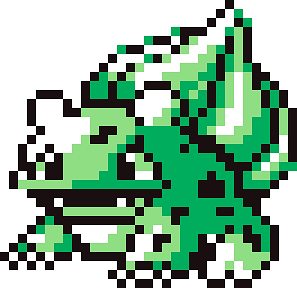
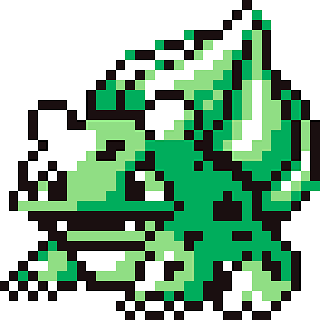
battlePanel styling done with all the pokemon pictures

diff --git a/index.html b/index.html
@@ -8,68 +8,71 @@
     <title>Pokemon Green</title>
     <script src="https://cdnjs.cloudflare.com/ajax/libs/jquery/3.2.1/jquery.min.js"></script>
     <link rel="stylesheet" href="assets/css/reset.css">
-    <!-- <link rel="stylesheet" href="https://stackpath.bootstrapcdn.com/bootstrap/4.1.3/css/bootstrap.min.css" integrity="sha384-MCw98/SFnGE8fJT3GXwEOngsV7Zt27NXFoaoApmYm81iuXoPkFOJwJ8ERdknLPMO"
-    crossorigin="anonymous"> -->
     <link rel="stylesheet" href="assets/css/style.css">
 </head>
 
 <body>
     <div class="userPanel">
         <div class="chooserTile">
-            <!-- <button class = "pokeBox"><img class = "pokePics" src="assets/images/charmander.png" alt=""></button>
-            <button class = "pokeBox"><img class = "pokePics" src="assets/images/squirtle.png" alt=""></button>
-            <button class = "pokeBox"><img class = "pokePics" src="assets/images/bulbasaur.png" alt=""></button> -->
-            <img id="charmander" class="pokePics" src="assets/images/charmander.png" alt="charmander">
-            <img id="squirtle" class="pokePics" src="assets/images/squirtle.png" alt="squirtle">
-            <img id="bulbasaur" class="pokePics" src="assets/images/bulbasaur.png" alt="bulbasaur">
+            <div class="pokeBox"><img id="charmander" class="pokePics" src="assets/images/charmander.png" alt="charmander"></div>
+            <div class="pokeBox"><img id="squirtle" class="pokePics" src="assets/images/squirtle.png" alt="squirtle"></div>
+            <div class="pokeBox"><img id="bulbasaur" class="pokePics" src="assets/images/bulbasaur.png" alt="bulbasaur"></div>
         </div>
 
         <div class="portraitTile">
-            <!-- <img id="portrait" src="assets/images/charmander.png" alt=""> -->
+            <div class="portraitBox"></div>
+            <div class="statsBox"></div>
         </div>
 
         <div class="abilitiesTile">
-            <!-- <div class="box1"> -->
-                <button class = "button button1">move1</button>
-            <!-- </div> class = "button button 1" -->
-            <!-- <div c class = "button button 1"lass="box2"> -->
-                <button class = "button button2">move2</button>
-            <!-- </div> class = "button button 1" -->
-            <!-- <div c class = "button button 1"lass="box3"> -->
-                <button class = "button button3">move3</button>
-            <!-- </div> class = "button button 1" -->
-            <!-- <div c class = "button button 1"lass="box4"> -->
-                <button class = "button button4">move4</button>
-            <!-- </div> -->
-            <!-- <div class="row">
-                <div class="col-md-6">
-                    <button type="button" class="btn btn-primary btn-lg">Large button</button>
-                </div>
-                <div class="col-md-6">
-                    <button type="button" class="btn btn-primary btn-lg">Large button</button>
-                </div>
-            </div>
-            <div class="row">
-                <div class="col-md-6">
-                    <button type="button" class="btn btn-primary btn-lg">Large button</button>
-                </div>
-                <div class="col-md-6">
-                    <button type="button" class="btn btn-primary btn-lg">Large button</button>
-                </div>
-            </div> -->
+            <button class="button button1">---</button>
+            <button class="button button2">---</button>
+            <button class="button button3">---</button>
+            <button class="button button4">---</button>
         </div>
     </div>
 
-    <div class="displayScreen">
-
-    </div>
-
-    <div class="dialogue">
-        <h1>Choose your starter Pokemon!</h1>
-    </div>
-
-    <div class="">
-
+    <div class="battlePanel">
+        <div class="battleTile">
+            <div class="gymLeader" id="Brock">
+                <div class = "pokePortrait">
+                    <div id="healthBar">88</div>
+                </div> 
+                Brock 
+                <img class="pokeOpponent" id="onix" src="assets/images/onix.png" alt="onix">
+            </div>
+            <div class="gymLeader" id="Misty">
+                Misty 
+                <img class="pokeOpponent" id="starmie" src="assets/images/starmie.png" alt="starnue">
+            </div>
+            <div class="gymLeader" id="Lt. Surge">
+                Lt. Surge 
+                <img class="pokeOpponent" id="raichu" src="assets/images/raichu.png" alt="raichu">
+            </div>
+            <div class="gymLeader" id="Erika">
+                Erika 
+                <img class="pokeOpponent" id="vileplume" src="assets/images/vileplume.png" alt="vileplume">
+            </div>
+            <div class="gymLeader" id="Koga">
+                Koga 
+                <img class="pokeOpponent" id="weezing" src="assets/images/weezing.png" alt="weezing">
+            </div>
+            <div class="gymLeader" id="Sabrina">
+                Sabrina 
+                <img class="pokeOpponent" id="alakazam" src="assets/images/alakazam.png" alt="alakazam">
+            </div>
+            <div class="gymLeader" id="Blaine">
+                Blaine 
+                <img class="pokeOpponent" id="arcanine" src="assets/images/arcanine.png" alt="arcanine">
+            </div>
+            <div class="gymLeader" id="Giovanni">
+                Giovanni 
+                <img class="pokeOpponent" id="nidoking" src="assets/images/nidoking.png" alt="nidoking">
+            </div>
+        </div>
+        <div class="dialogue">
+            <h1>Choose your starter Pokemon!</h1>
+        </div>
     </div>
     <script src="assets/javascript/game.js"></script>
 </body>

diff --git a/assets/css/style.css b/assets/css/style.css
@@ -1,56 +1,67 @@
+body{
+    /* border: 1px solid black; */
+    width: 100%;
+    height: 730px;
+}
 .userPanel{
     float: left;
-    max-width: 560px;
-    height: 730px;
-    background-color: antiquewhite;
+    width: 40%;
+    height: 100%;
+    background-color: white;
     border-right: 2px solid black;
     border-bottom: 2px solid black;
+    text-align: center;
 }
 .chooserTile{
-    width: 520px;
-    height: 160px;
-    border: 20px solid beige;
+    width: 100%;
+    height: 23%;
+    /* height: 160px; */
+    /* border: 20px 0px 20px 0px solid beige; */
     float: left;
     /* margin: 0px auto; */
-    background-color: beige;   
+    background-color: white;
+    text-align: center;
+}
+.pokeBox{
+    /* padding: 1%  ; */
+    float: left;
+    width: 33.33%;
+    height: 100%;
 }
 .pokePics{
-    width: 160px;
-    height: 160px;
+    border: 1% solid black;
+    width: auto;
+    height: 98%;
     float: left;
 }
 
-#squirtle {
-    margin: 0px 20px;
-}
 .portraitTile{
     float: left;
-    height: 250px;
-    width: 100%;
-    background-color: blanchedalmond;
+    height: 37%;
+    /* width: 70%; */
+    background-color: black;
+}
+.portraitBox{
+    height: 100%;
     text-align: center;
 }
+.statsBox{
+    float: left;
+    color: white;
+}
 #portrait{
-    opacity: 0%;
+    float: left;
     width: auto;
-    height: 96%;
-    border: 5px solid black;
+    height: 100%;
+    /* border: 2px solid pink; */
     
 }
 .abilitiesTile{
     float: left;
-    height: 280px;
+    height: 40%;
     width: 100%;
     background-color: grey;
 }
-/* .box1, .box2, .box3, .box4{
-    float: left;
-    width: 50%;
-    height: 50%;
-    text-align: center;
-    vertical-align: middle;
-    margin: auto;
-} */
 .button{
     float: left;
     width: 50%;
@@ -76,13 +87,52 @@
     color: white;
 }
 
+.battlePanel{
+    border: 1px solid black;
+    float: left;
+    width: 55%;
+    height: 100%;
+    background-color: white;
+}
+
+.battleTile{
+    float: left;
+    height: 70%;
+    width: 100%;
+    text-align: center;
+    font-size: 12px;
+}
+.gymLeader{
+    float: left;
+    height: 25%;
+    width: 50%;
+    /* border: 1px solid red; */
+    background-color: azure;
+}
 .dialogue{
     font-weight: bold;
     font-size: 30px;
-    border: 5px solid blue;
-    height: 190px;
-    width: 600px;
+    background-color: lightgrey;
+    height: 30%;
+    width: 100%;
     float: left;
     text-align: center;
 }
 
+
+.pokePortrait{
+    float: left;
+    height: 80%;
+    width: 40%;
+}
+.pokeOpponent{
+    filter: blur(20px) grayscale(100%);
+    float: right;
+    height: 90%;
+    width: auto;
+}
+#healthBar{
+    float: left;
+    width: 100%;
+    height: 10%;
+}

diff --git a/assets/javascript/game.js b/assets/javascript/game.js
@@ -41,32 +41,32 @@ $(".pokePics").on("click", function () {
         starter = new Pokemon("Charmander", 39, 52, 43, 65, "fire", "Scratch", "Growl", "Ember");
         $("#squirtle").fadeTo(500, .2);
         $("#bulbasaur").fadeTo(500, .2);
-        $(".portraitTile").html("<img id='portrait' src='assets/images/charmander.png' alt=''>");
+        $(".portraitBox").html("<img id='portrait' src='assets/images/charmander.png' alt=''>");
 
     }
     else if (chosenPokemon === "squirtle") {
         starter = new Pokemon("Squirtle", 44, 48, 65, 43, "water", "Tackle", "Tailwhip", "Water gun");
         $("#charmander").fadeTo(500, .2);
         $("#bulbasaur").fadeTo(500, .2);
-        $(".portraitTile").html("<img id='portrait' src='assets/images/squirtle.png' alt=''>")
+        $(".portraitBox").html("<img id='portrait' src='assets/images/squirtle.png' alt=''>")
     }
     else if (chosenPokemon === "bulbasaur") {
         starter = new Pokemon("Bulbasaur", 45, 49, 49, 45, "grass", "Tackle", "Mud shot", "Razor leaf");
         $("#charmander").fadeTo(500, .2);
         $("#squirtle").fadeTo(500, .2);
-        $(".portraitTile").html("<img id='portrait' src='assets/images/bulbasaur.png' alt=''>")
+        $(".portraitBox").html("<img id='portrait' src='assets/images/bulbasaur.png' alt=''>")
     }
     $(".dialogue").text("You chose " + starter.name + "!");
-    $(".button1").html(starter.move1);
+    $(".button1").html(starter.move1).click(function() {
+        console.log("you used " + starter.move1)
+    });
     $(".button2").html(starter.move2);
     $(".button3").html(starter.move3);
     $(".button4").html("---");
+    initializeFight(starter.name);
     $(".pokePics").off("click");        // So that you can only choose once
 })
 
-
-console.log("This is starter " + starter);
-// alert(Pokemon.name);
 
 function Pokemon(name, hp, attack, defense, speed, type, move1, move2, move3) {
     this.name = name;
@@ -79,7 +79,13 @@ function Pokemon(name, hp, attack, defense, speed, type, move1, move2, move3) {
     this.move2 = move2;
     this.move3 = move3;
 }
-
+function initializeFight(starter){
+    if(starter==="Charmander"){
+        $(".pokePortrait").html("<img id = 'portrait' src ='assets/images/charmander.png' alt=''>")
+        $("#onix").css('filter', 'blur(0px) grayscale(0%)');
+        
+    }
+}
 
 // function initiateFight(p1, p2) {
 //     console.log("initiateMove function executed");
